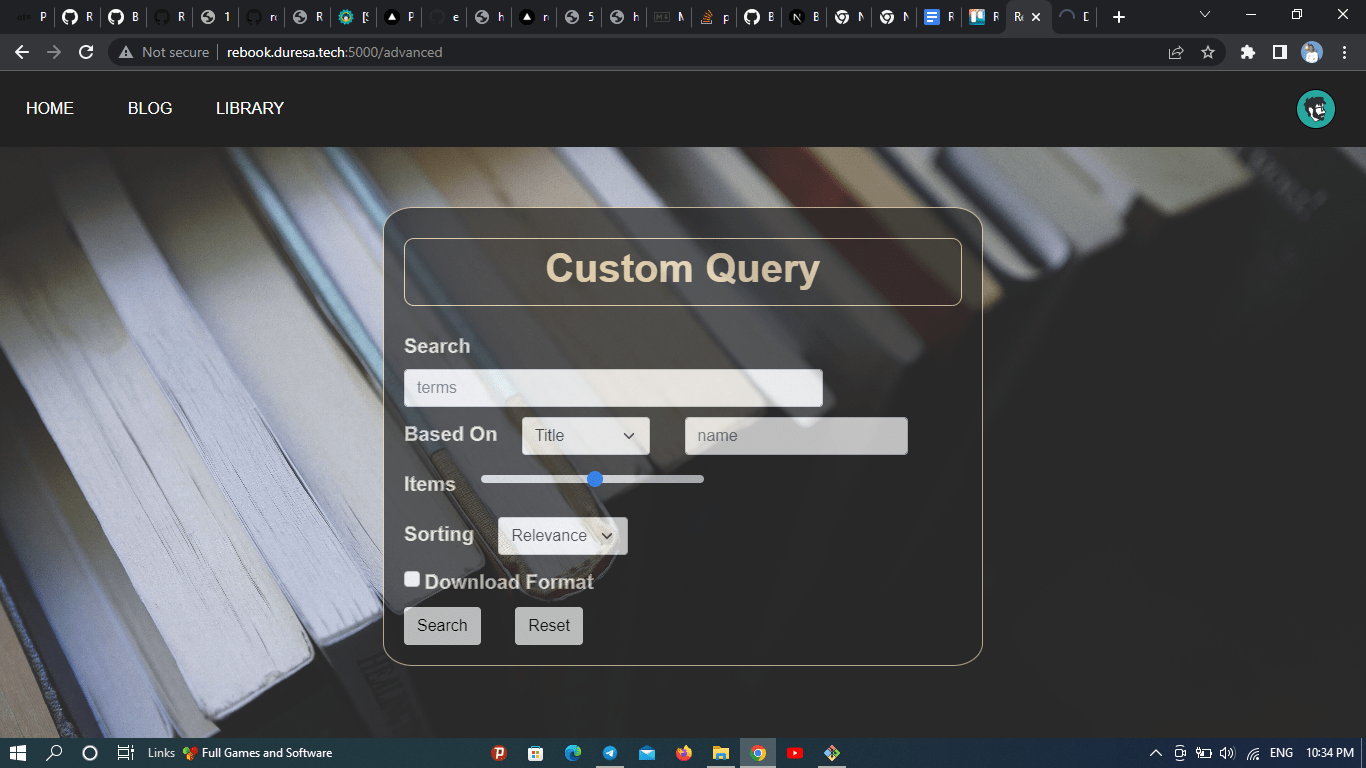
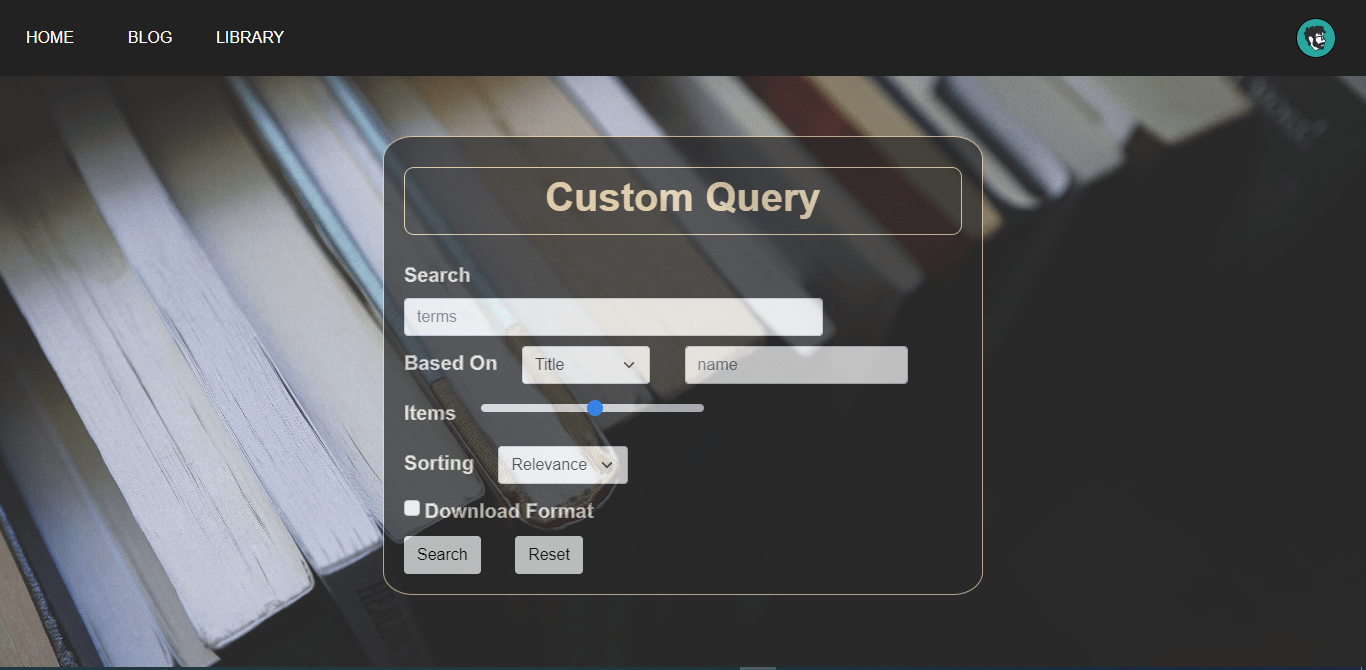
resize images for ReadMe content

diff --git a/site/src/index.html b/site/src/index.html
@@ -49,10 +49,12 @@
           <div class="title" id="home" contenteditable="false" spellcheck="false">
             <div class="main-title">Rebook</div>
             <p class="title sub-title">Get the Book You always wanted</p>
-            <a href="https://rebook.duresa.tech:5000/" class="btn btn-primary" target="_blank"> JOIN US  <span class="fa fa-arrow-right checked"></span> </a> &nbsp;
+            <a href="http://rebook.duresa.tech:5000/" class="btn btn-primary" target="_blank"> JOIN US  <span class="fa fa-arrow-right checked"></span> </a> &nbsp;
             
             <a href="https://Github.com/bisryy/Rebook" class="btn btn-secondary" target="_blank"><span class="fa fa-github checked"></span> Github </a> &nbsp;
-            <a href="https://re-book.vercel.app/images/ReBook.apk" download class="btn btn-primary" target="_blank"><span class="fa fa-download checked"></span> Download App</a> 
+            <a href="https://re-book.vercel.app/images/ReBook.apk" download class="btn btn-primary" target="_blank"><span class="fa fa-download checked"></span> Download App</a>  &nbsp;
+            
+            <a href="https://Rebook_robot.t.me" class="btn btn-secondary" target="_blank"><span class="fa fa-telegram checked"></span> <i class="fa fa-robot"></i> </a>
             
         </div>
         </div>
@@ -133,7 +135,6 @@
                   <a href="https://github.com/bisryy"><span class="fa fa-github checked"></span></a>
                   <a href="https://www.linkedin.com/in/BisRy"><span class="fa fa-linkedin checked"></span></a>
                 </div>
-
             </div>
             <div class="testimonial-box">
                 <div class="customer-detail">
@@ -143,7 +144,7 @@
                     </div>
                 </div>
                 <p class="testimonial-text">
-                  An adventurous person looking for the right wave to sail. Knowledge is power and where it hits the highest is where to sail. Sailing across the ocean from the highest wave to entering the deepest ocean struggling and at the most losing faith moments finds one's self at the other side of the ocean where all the hidden jewelery are at. In the end, Realizes the hidden jewlery was all ability of one's self.
+                Young and motivated tech enthusiast who is passionate about helping businesses grow. I have a great attention to detail and believe that code should be simple yet effective to create great applications. My goal is to use my skills to solve problems while learning something new every day!
                 </p>
                 <div class="star-rating">
                   <a href="https://duresa.tech"><span class="fa fa-home checked"></span></a>
@@ -153,7 +154,6 @@
                   <a href="https://github.com/duressa-feyissa/"><span class="fa fa-github checked"></span></a>
                   <a href="https://www.linkedin.com/in/BisRy"><span class="fa fa-linkedin checked"></span></a>
                 </div>
-
             </div>
         </div>
     </section>
